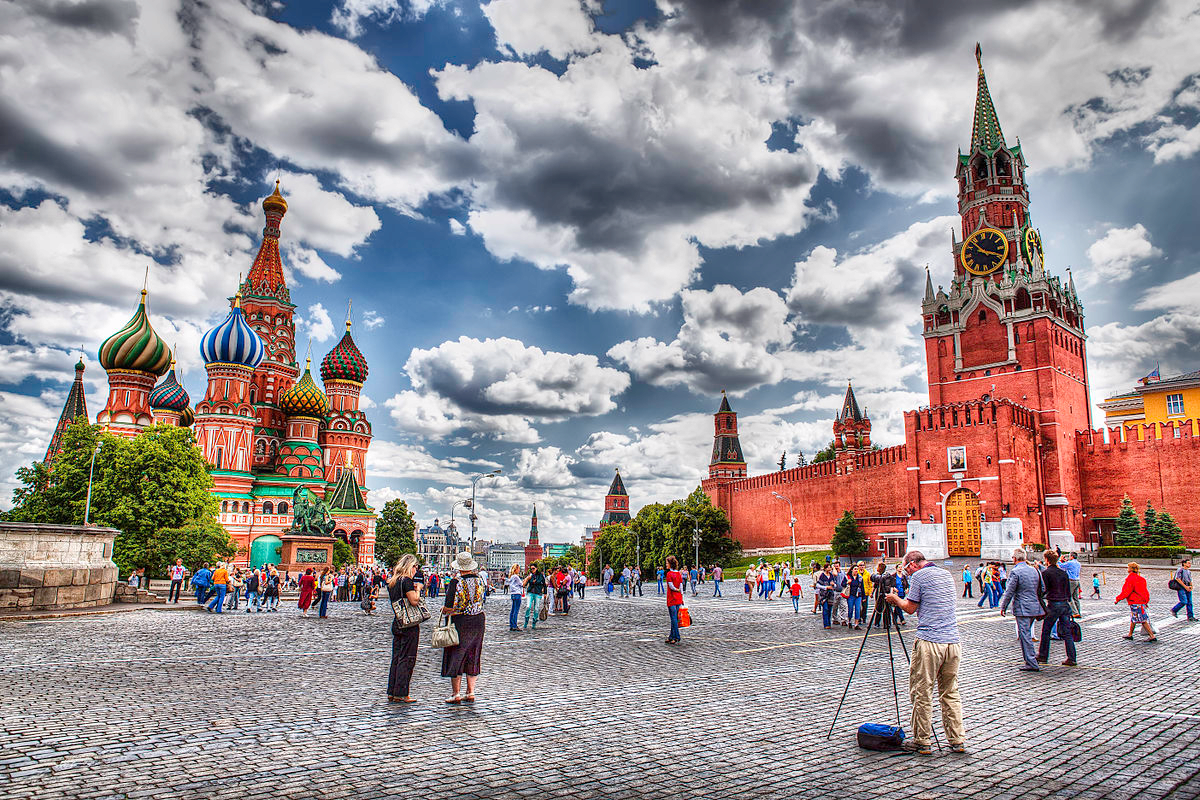
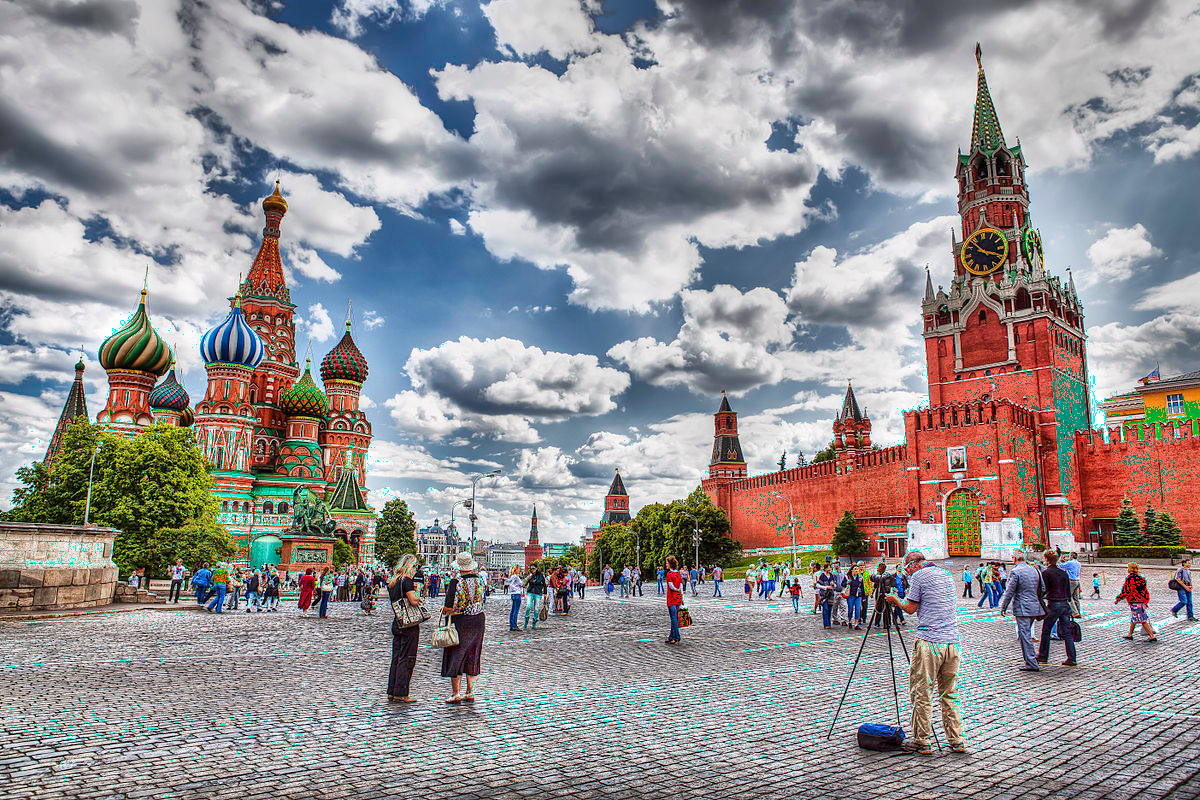
premiere fonction encodage et decodager et choix des couches encode

diff --git a/Encoding.py b/Encoding.py
@@ -13,7 +13,7 @@ class Encoding:
         self.pixels = Pixels(image_name)
         #decide si on encode sur une base pair ou impair (une valuer par couleur)
         #self.encode_layer = ([randint(0,2)]for i in range(3))
-        self.encode_layer = [0,0,0]
+        self.encode_layer = [1,0,0]
         #met tout nos pixel a la valuer pair ou impair voulu
         for i in range(3):
             if self.encode_layer[i]==1:
@@ -26,7 +26,7 @@ class Encoding:
         self.functions =["test_func"]
         #decide quel module d'encryptage vont etre utiliser (1 veut dire que le module est utilise)
         #self.code_encodage = ([[randint(0,2)] for j in range(3)] for i in range(len(self.functions)))
-        self.code_encodage = [[1,0,1]]
+        self.code_encodage = [[1,0,0],[1,0,0]]
 
     def test_func_enc(self,color:int):
         
@@ -39,6 +39,21 @@ class Encoding:
                     temp_list[color]+=1
                 self.pixels.values[i,j]=tuple(temp_list)
     
+    def func_1_enc(self,color:int):
+        last_value=0
+        for i in range(self.pixels.lenght):
+            for j in range(self.pixels.height):
+                if last_value < 0.01:
+                    if self.pixels.values[i,j][color]%2 >0.1:
+                        last_value = 1
+                else:
+                    temp_list = list( self.pixels.values[i,j])
+                    temp_list[color]+=1
+                    self.pixels.values[i,j]=tuple(temp_list) 
+                    if self.pixels.values[i,j][color]%2 < 0.1 :
+                        last_value = 0
+                        
+
     def message_to_bin(self):
         mess_bin = []
         

diff --git a/Decoding.py b/Decoding.py
@@ -2,11 +2,11 @@ from Pixels import Pixels
 from Encoding import Encoding
 
 def find_code_encododage(im : Pixels):
-    code_encododage = [[1,0,1]]
+    code_encododage = [[1,0,0],[1,0,0]]
     return code_encododage
 
 def find_encoded_layer(im:Pixels):
-    encoded_layer = [0,0,0]
+    encoded_layer = [1,0,0]
     return encoded_layer
 
 """
@@ -27,6 +27,20 @@ def test_func_dec(im : Pixels ,color:int):
                 temp_list[color]+=-1
             im.values[i,j] = tuple(temp_list)
 
+def func_1_dec(im : Pixels,color:int):
+    for i in range(im.lenght-1,-1,-1):
+        for j in range(im.height-1,-1,-1):
+            if j == 0 :
+                if im.values[i-1,im.height-1][color]%2>0.5:
+                    temp_list = list(im.values[i,j])
+                    temp_list[color] += -1
+                    im.values = tuple(temp_list)
+            else:
+                if im.values[i,j-1][color]%2>0.5:
+                    temp_list = list(im.values[i,j])
+                    temp_list[color] += -1
+                    im.values = tuple(temp_list)
+
 
 """
 
@@ -38,7 +52,9 @@ def extract_message(im : Pixels,color,encode_layer):
     if encode_layer[color]==1:
         for x in range(im.lenght):
             for y in range(im.height):
-                im.values[x,y]+=-1
+                temp_list = list(im.values[x,y])
+                temp_list[color] += -1
+                im.values[x,y] = tuple(temp_list)
     
     message_in_binairy = ""
     zero_counter=0
